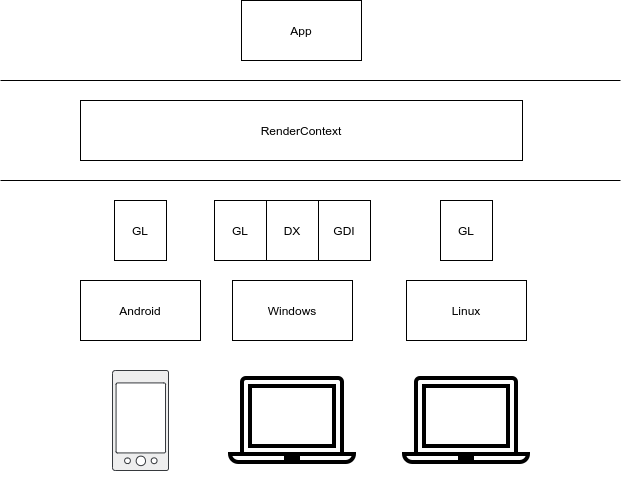
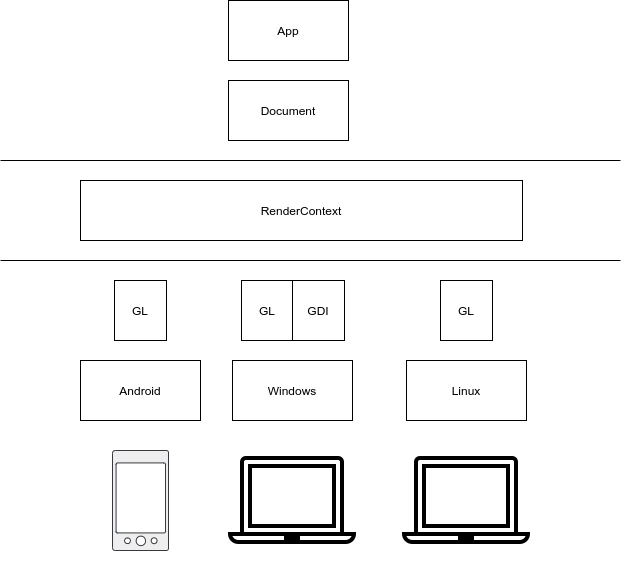
upd

diff --git a/readme.md b/readme.md
@@ -18,6 +18,10 @@ Radmap: [roadmap.md](roadmap.md)
 
 ![d-coder-ui-sample-RAM.png](docs/d-coder-ui-sample-RAM.png)
 
+### Document
+
+![d-ui-element-dom.png](docs/d-ui-element-dom.png)
+
 ### Main idea
 
 Take UI definition, convert to native D code, then D code compile to binary.
